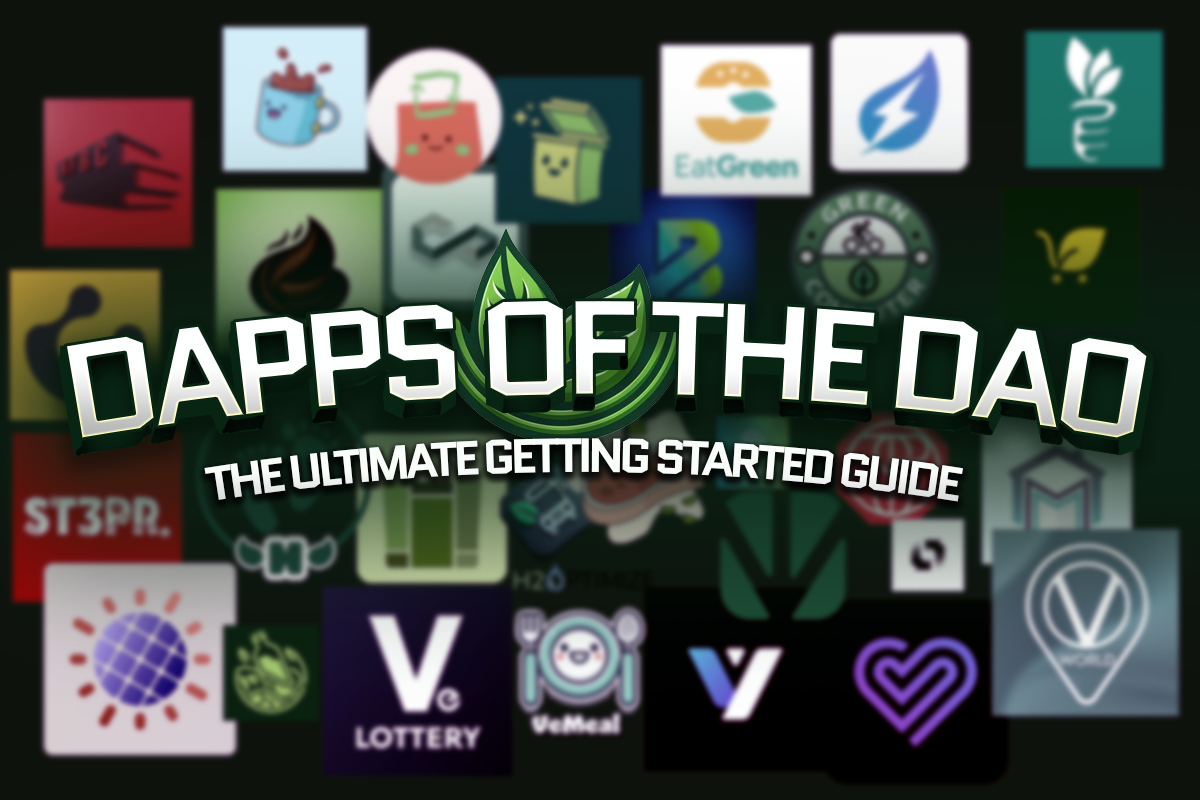
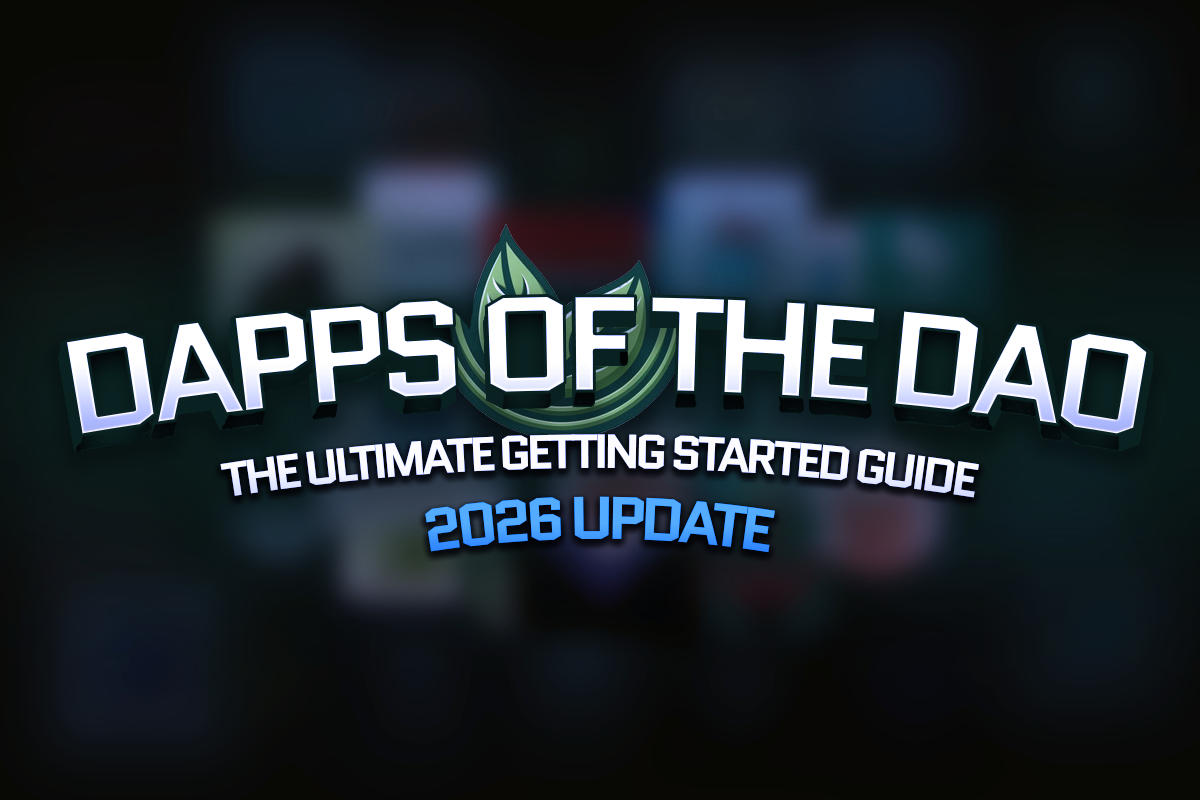
Quartz sync: Jan 10, 2026, 3:05 PM

diff --git a/content/⭐ Getting Started with dApps.md b/content/⭐ Getting Started with dApps.md
@@ -9,7 +9,7 @@ Join me as I guide you through ALL dApps of the #VeBetterDAO with the ultimate g
 > - **How it works:** The multiplier and the amount of VOT3 required varies by app. Some simply check if you voted at all, while others have tiered thresholds. 
 > 	- Most apps support both normal voting through VeBetterDAO as well as veDelegate voting *(including in-app staking in dApps and Lock2Earn terms)* - see [[🚀 The Voter's Guide to the Galaxy]]
 >     
-> - **Who to vote for:** Generally, it does **not** matter which app you voted for. You just need to have participated in governance.
+> - **Who to vote for:** Generally, it does **not** matter whicNh app you voted for. You just need to have participated in governance.
 >     
 > 
 > Look for the 🗳️ **Voting Multiplier Active** tag on the apps below!